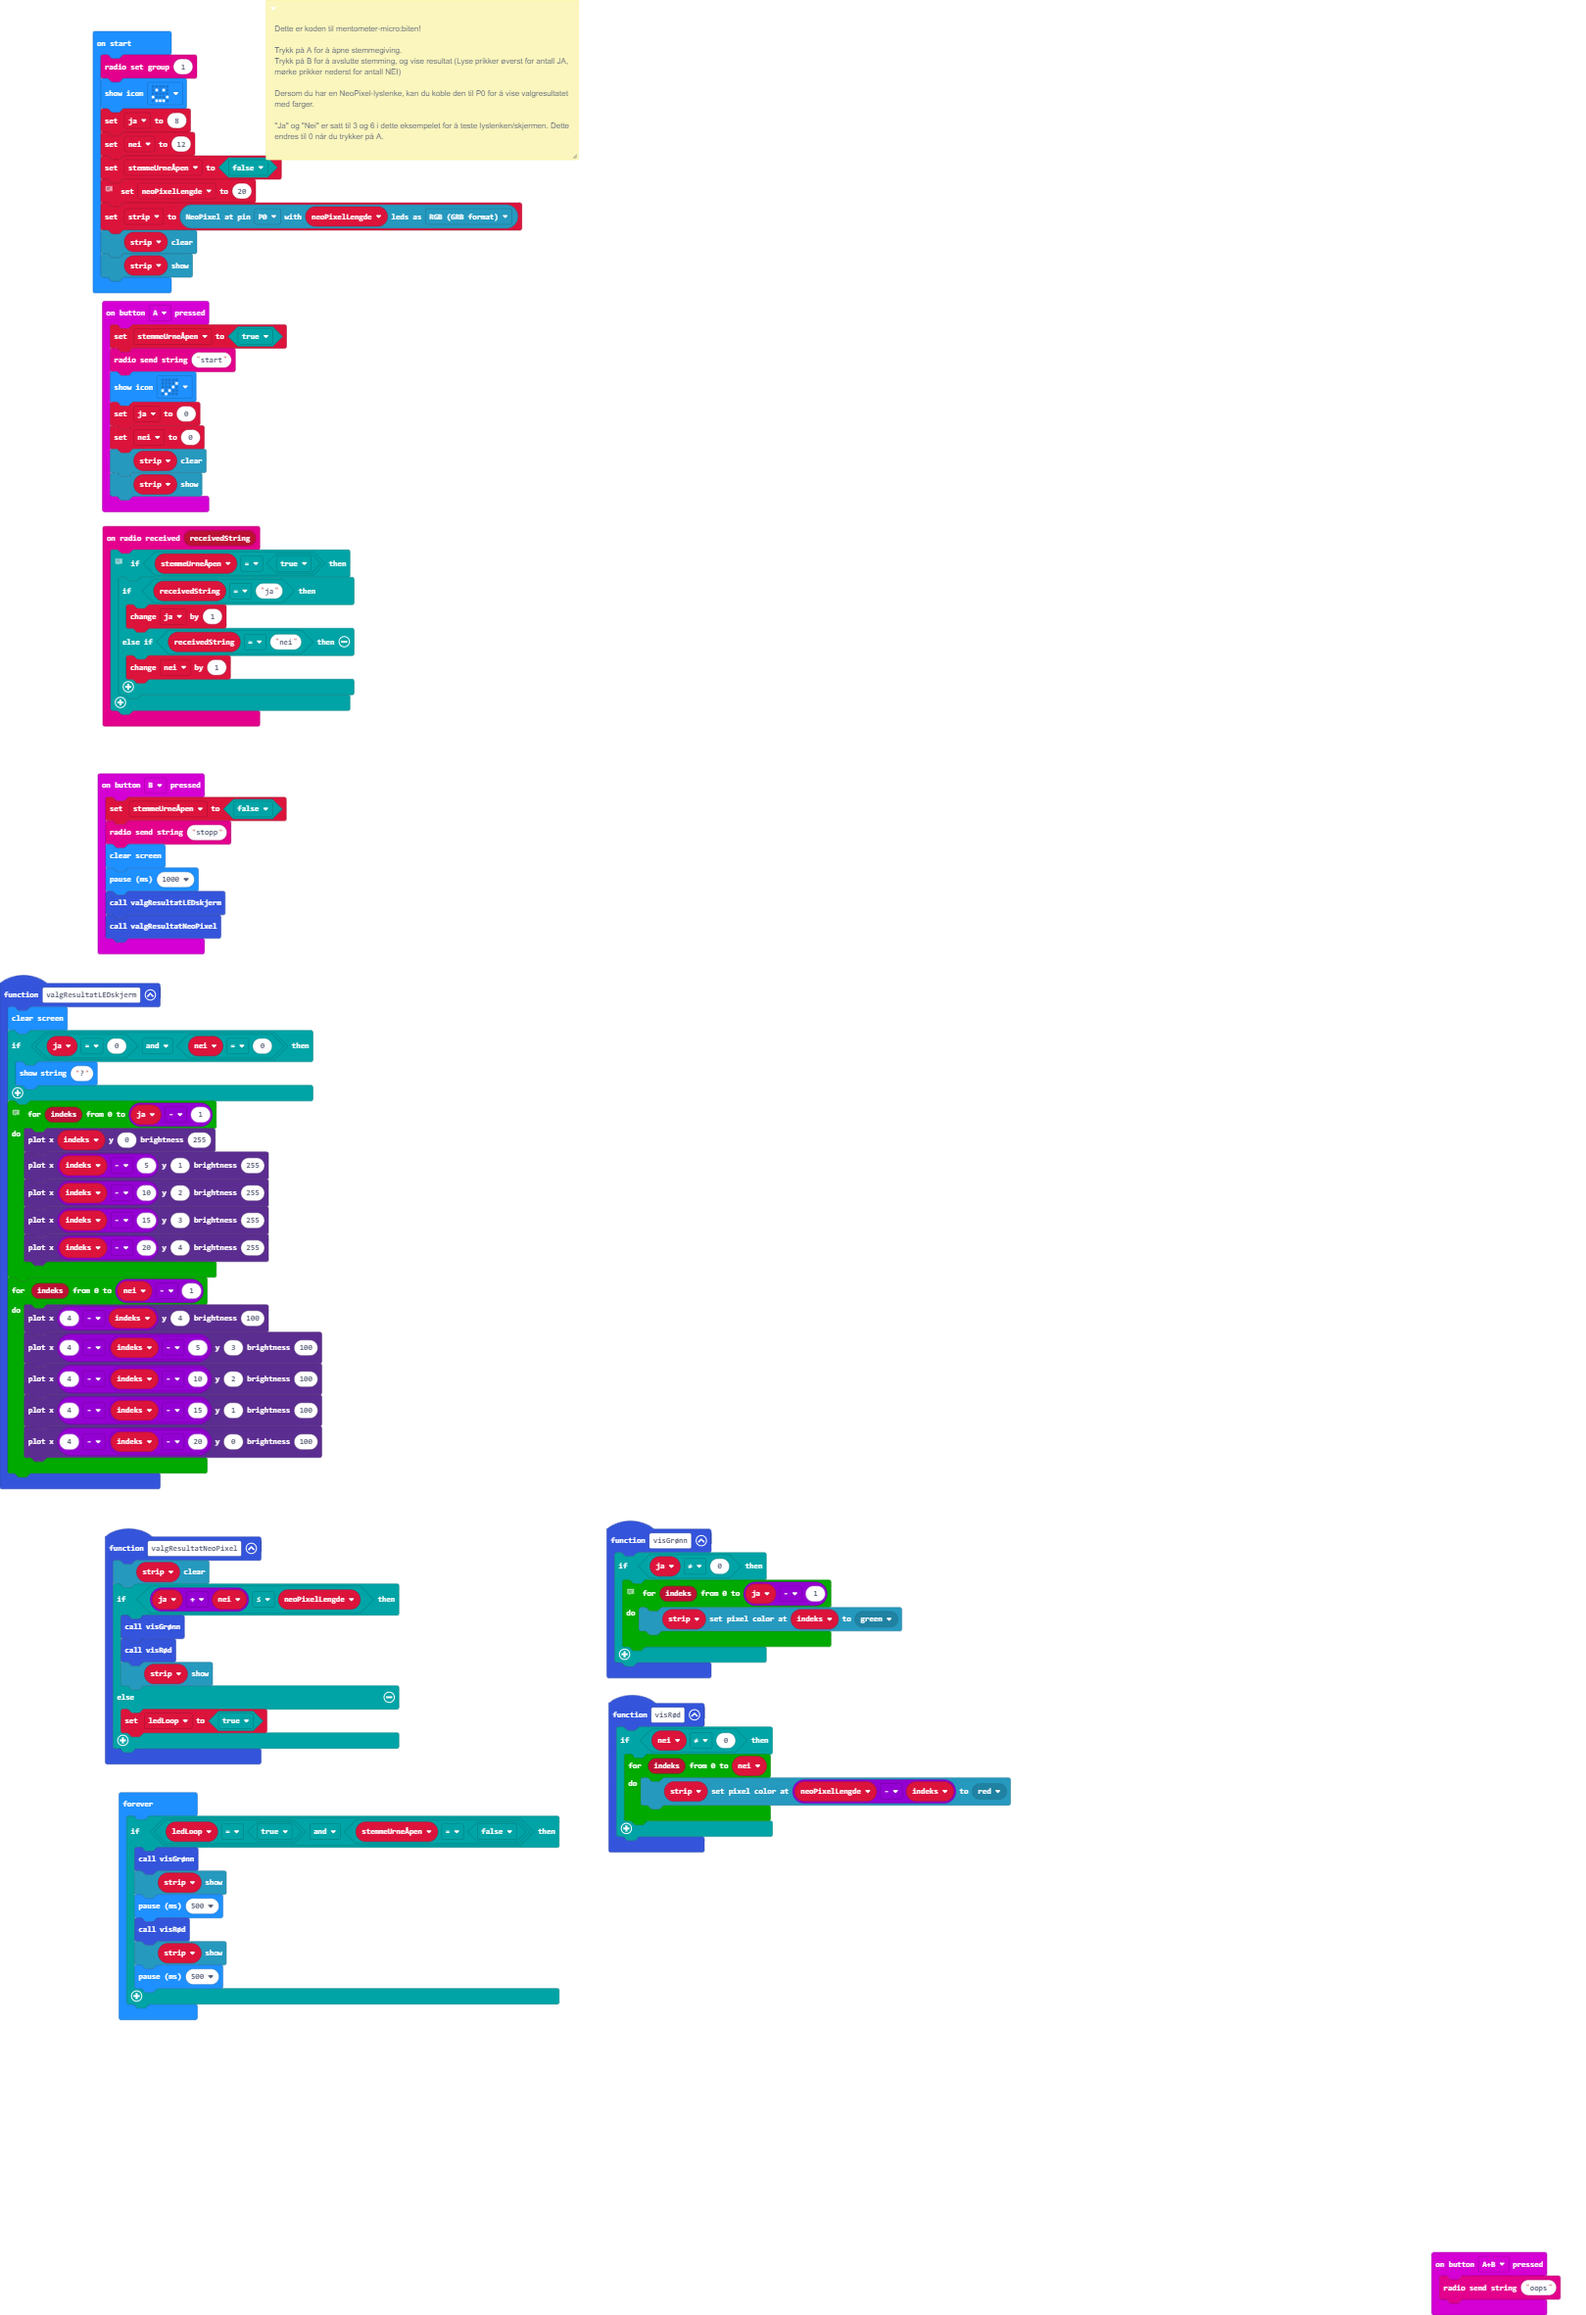
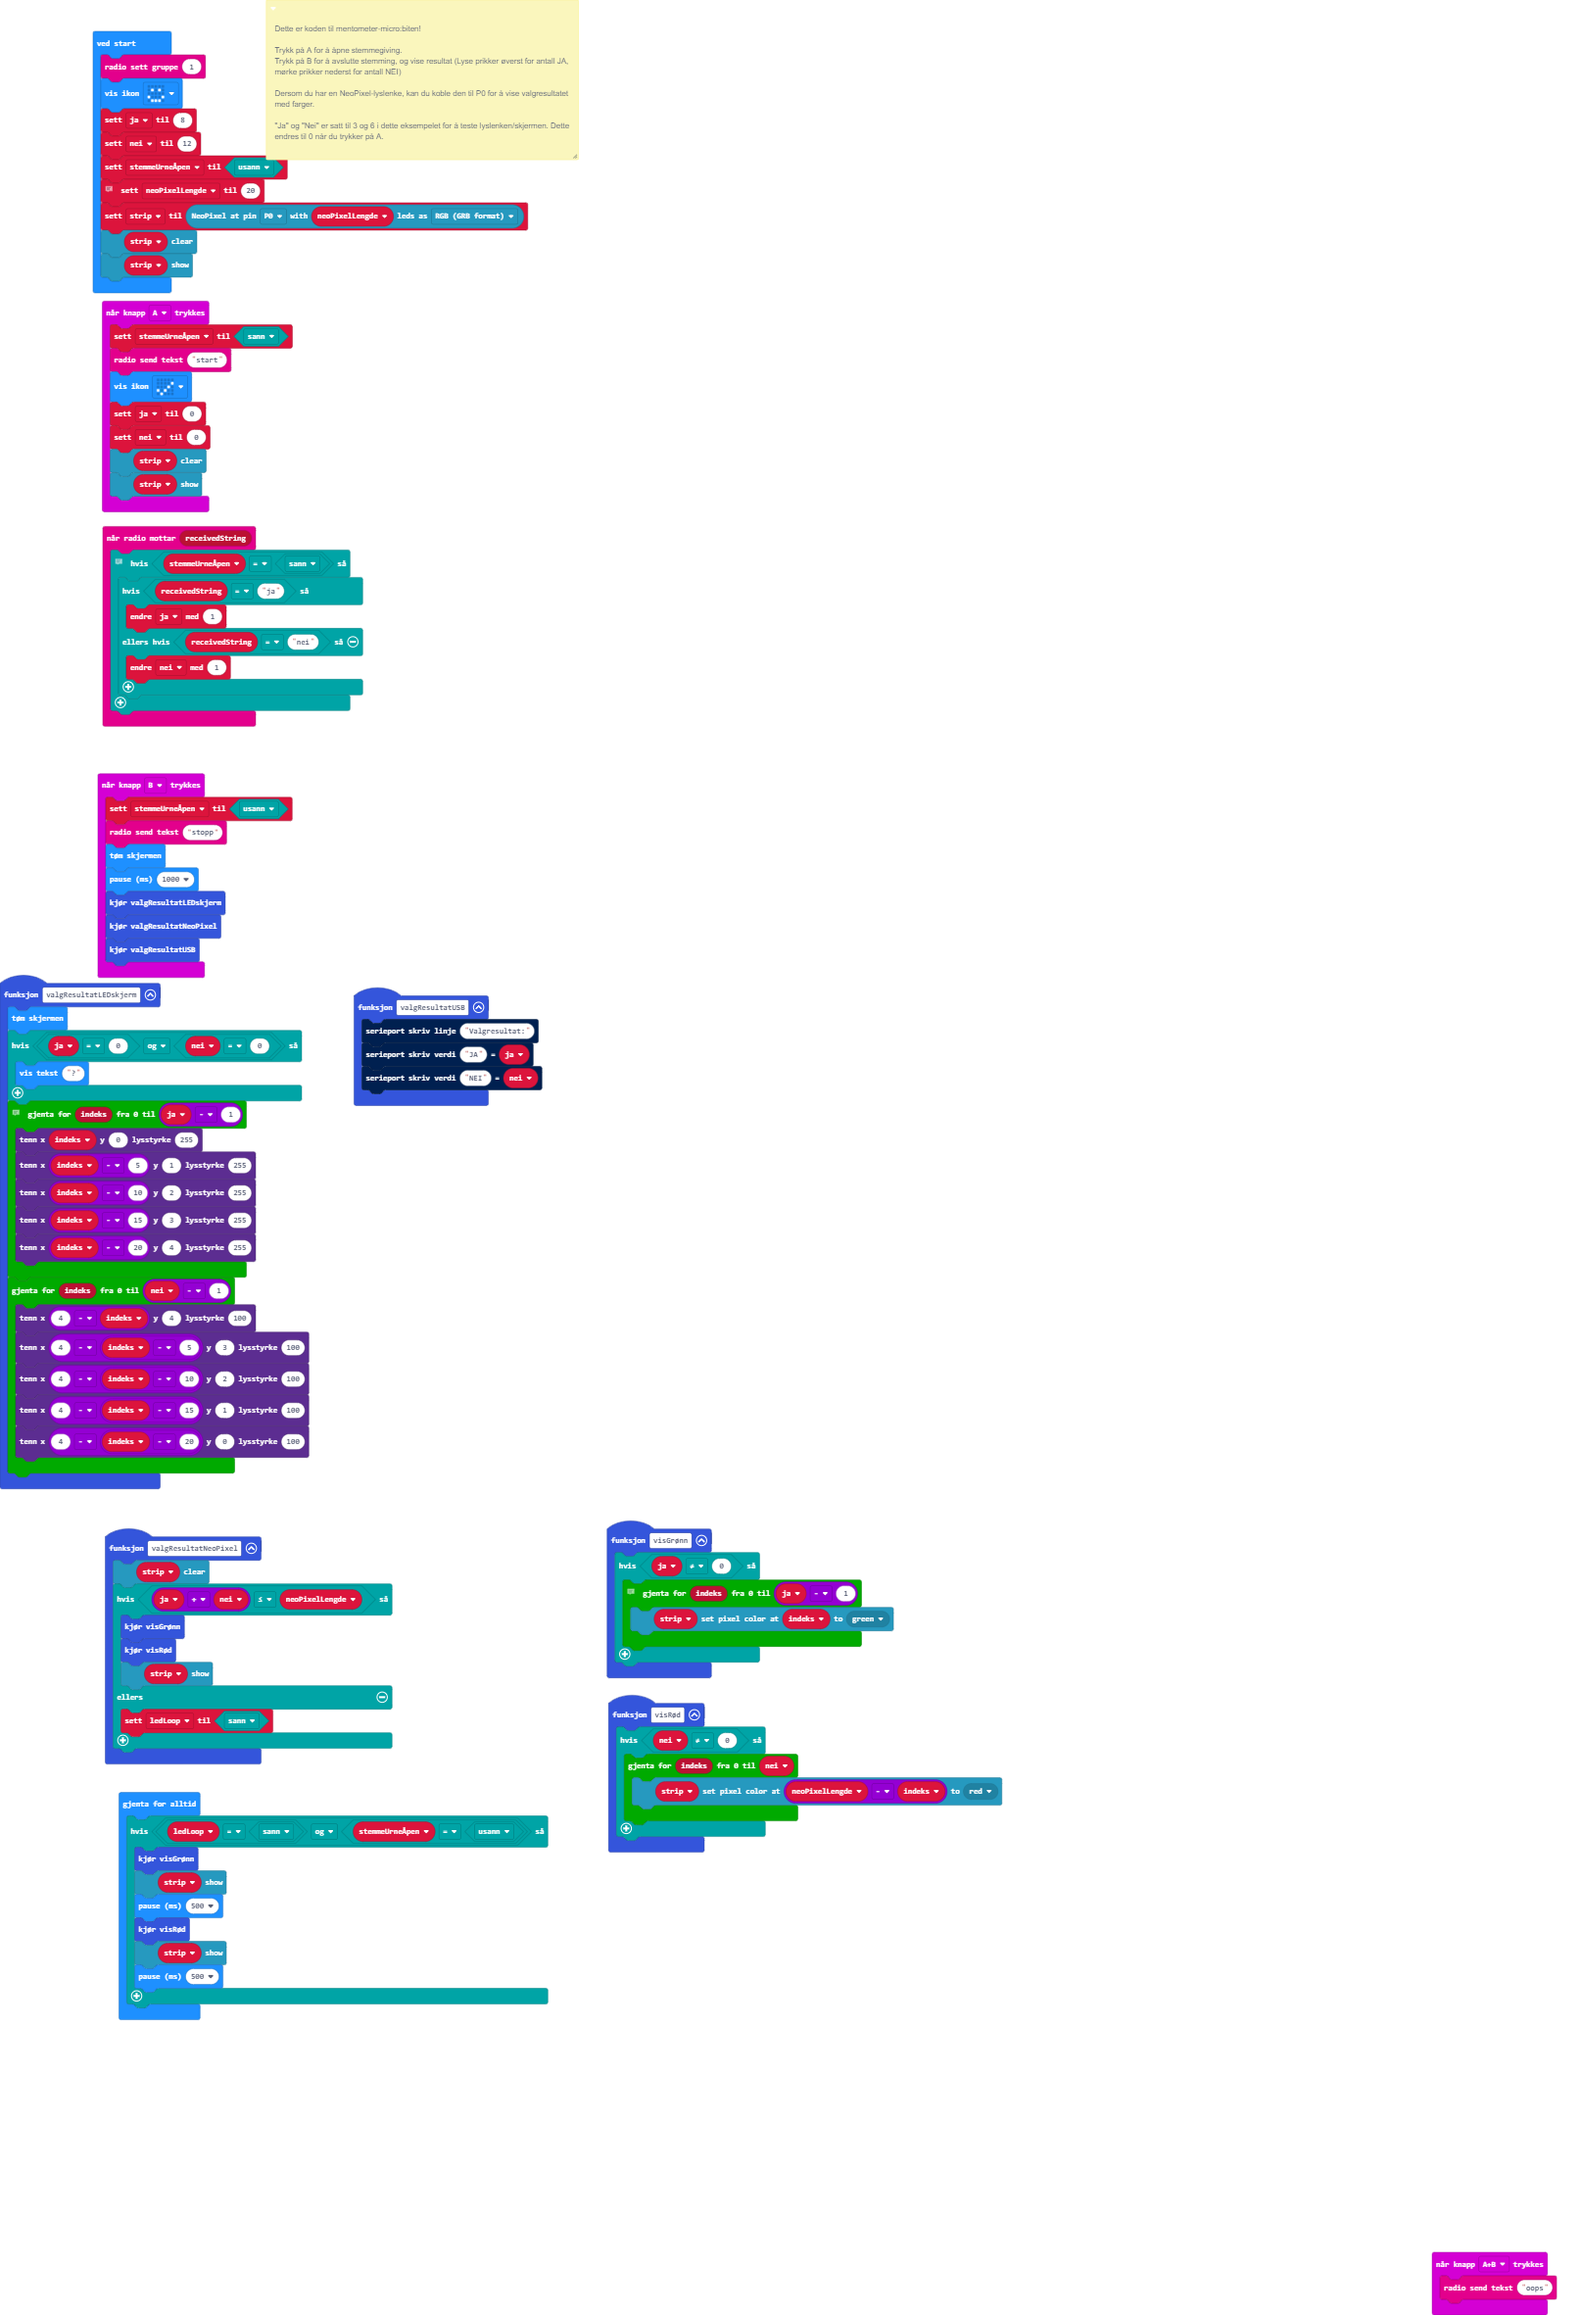
USB-resultat

diff --git a/main.ts b/main.ts
@@ -1,3 +1,8 @@
+function valgResultatUSB () {
+    serial.writeLine("Valgresultat:")
+    serial.writeValue("JA", ja)
+    serial.writeValue("NEI", nei)
+}
 function valgResultatLEDskjerm () {
     basic.clearScreen()
     if (ja == 0 && nei == 0) {
@@ -66,6 +71,7 @@ input.onButtonPressed(Button.B, function () {
     basic.pause(1000)
     valgResultatLEDskjerm()
     valgResultatNeoPixel()
+    valgResultatUSB()
 })
 function visRød () {
     if (nei != 0) {
